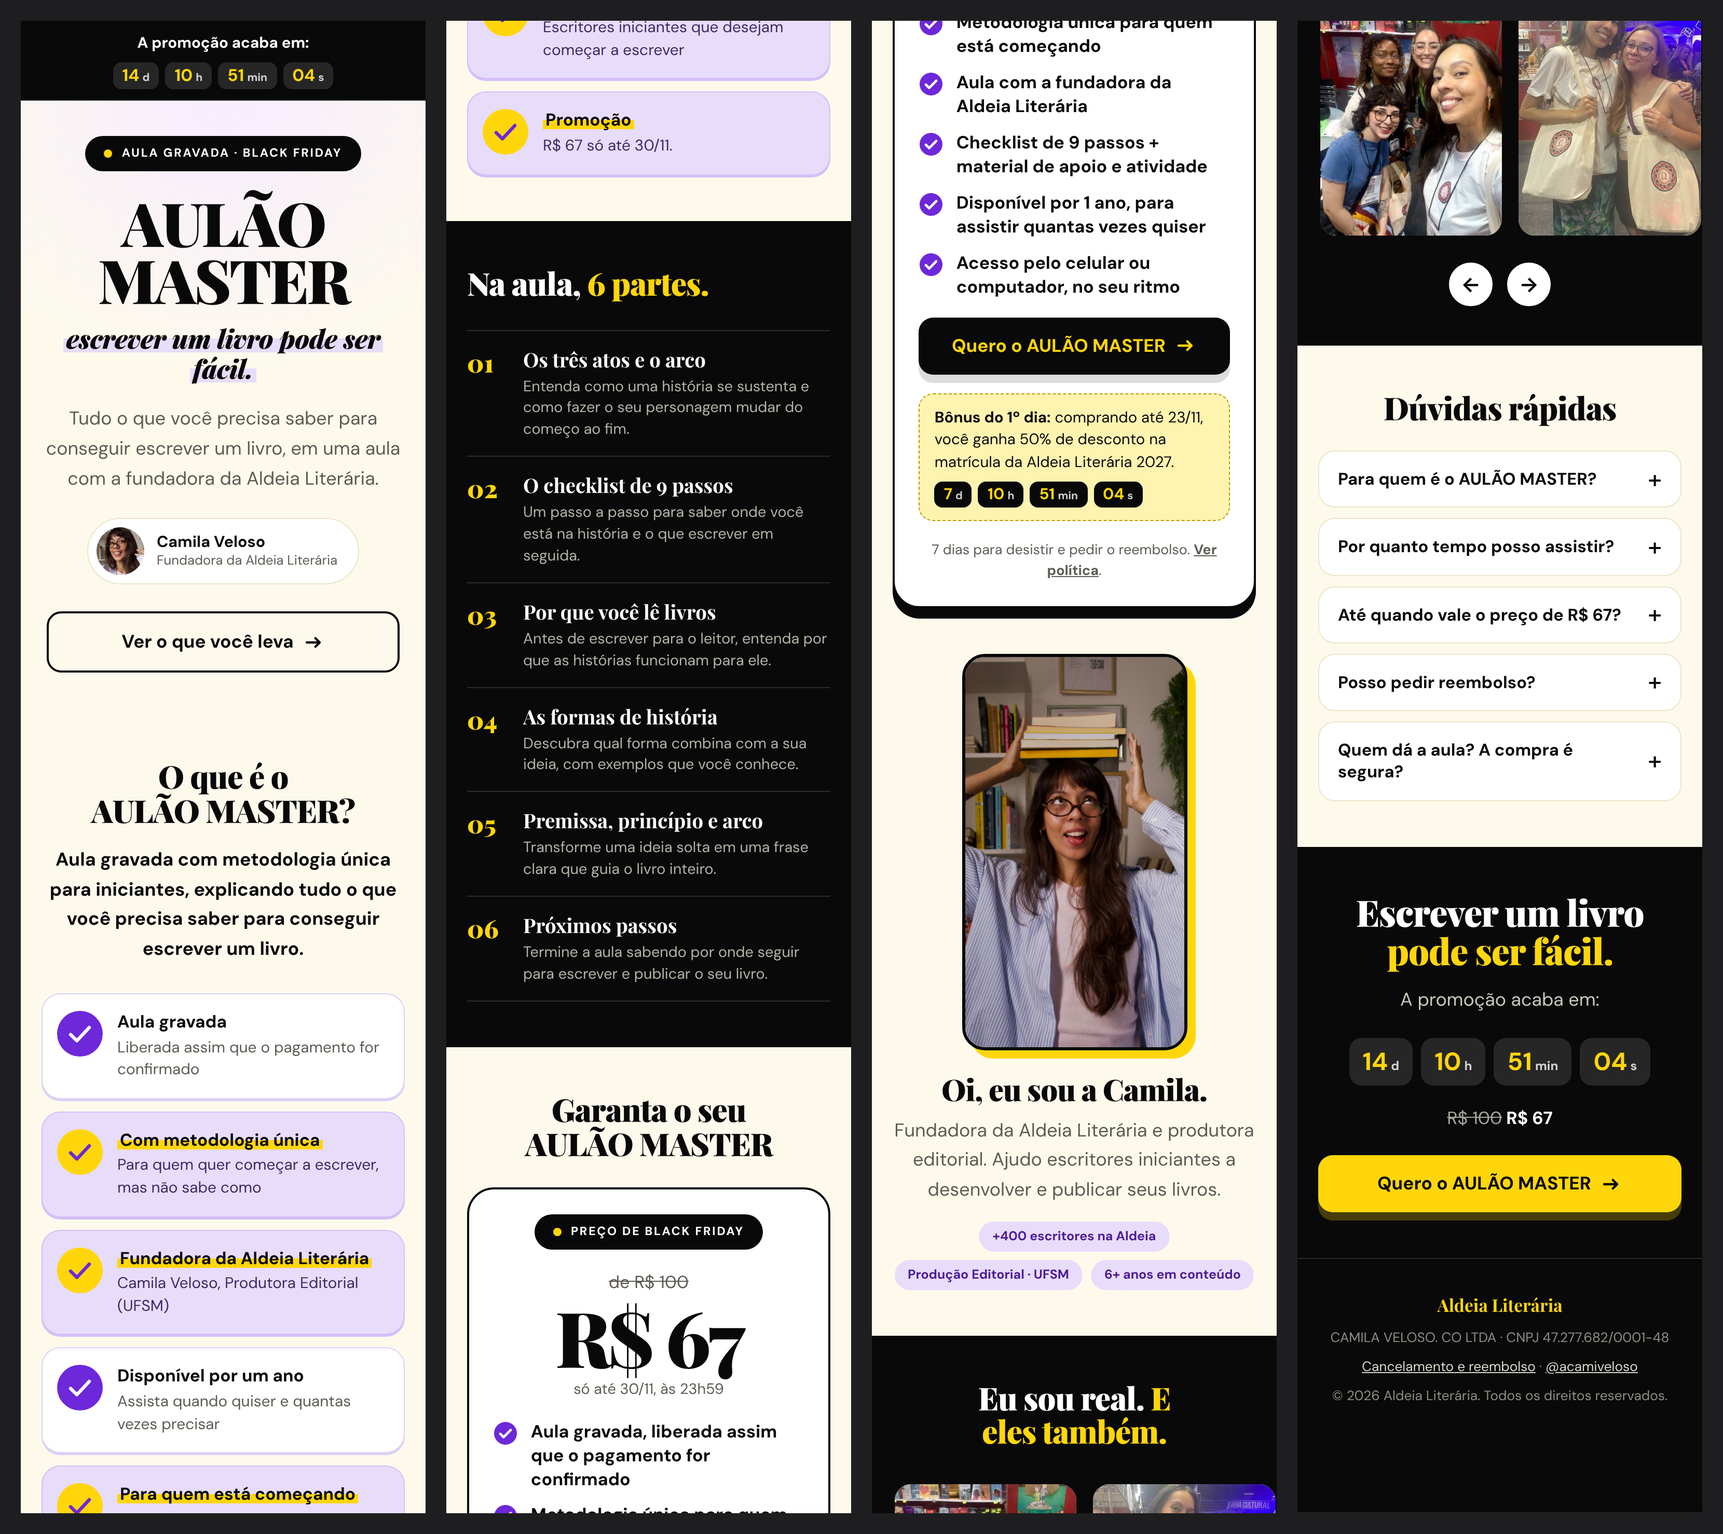
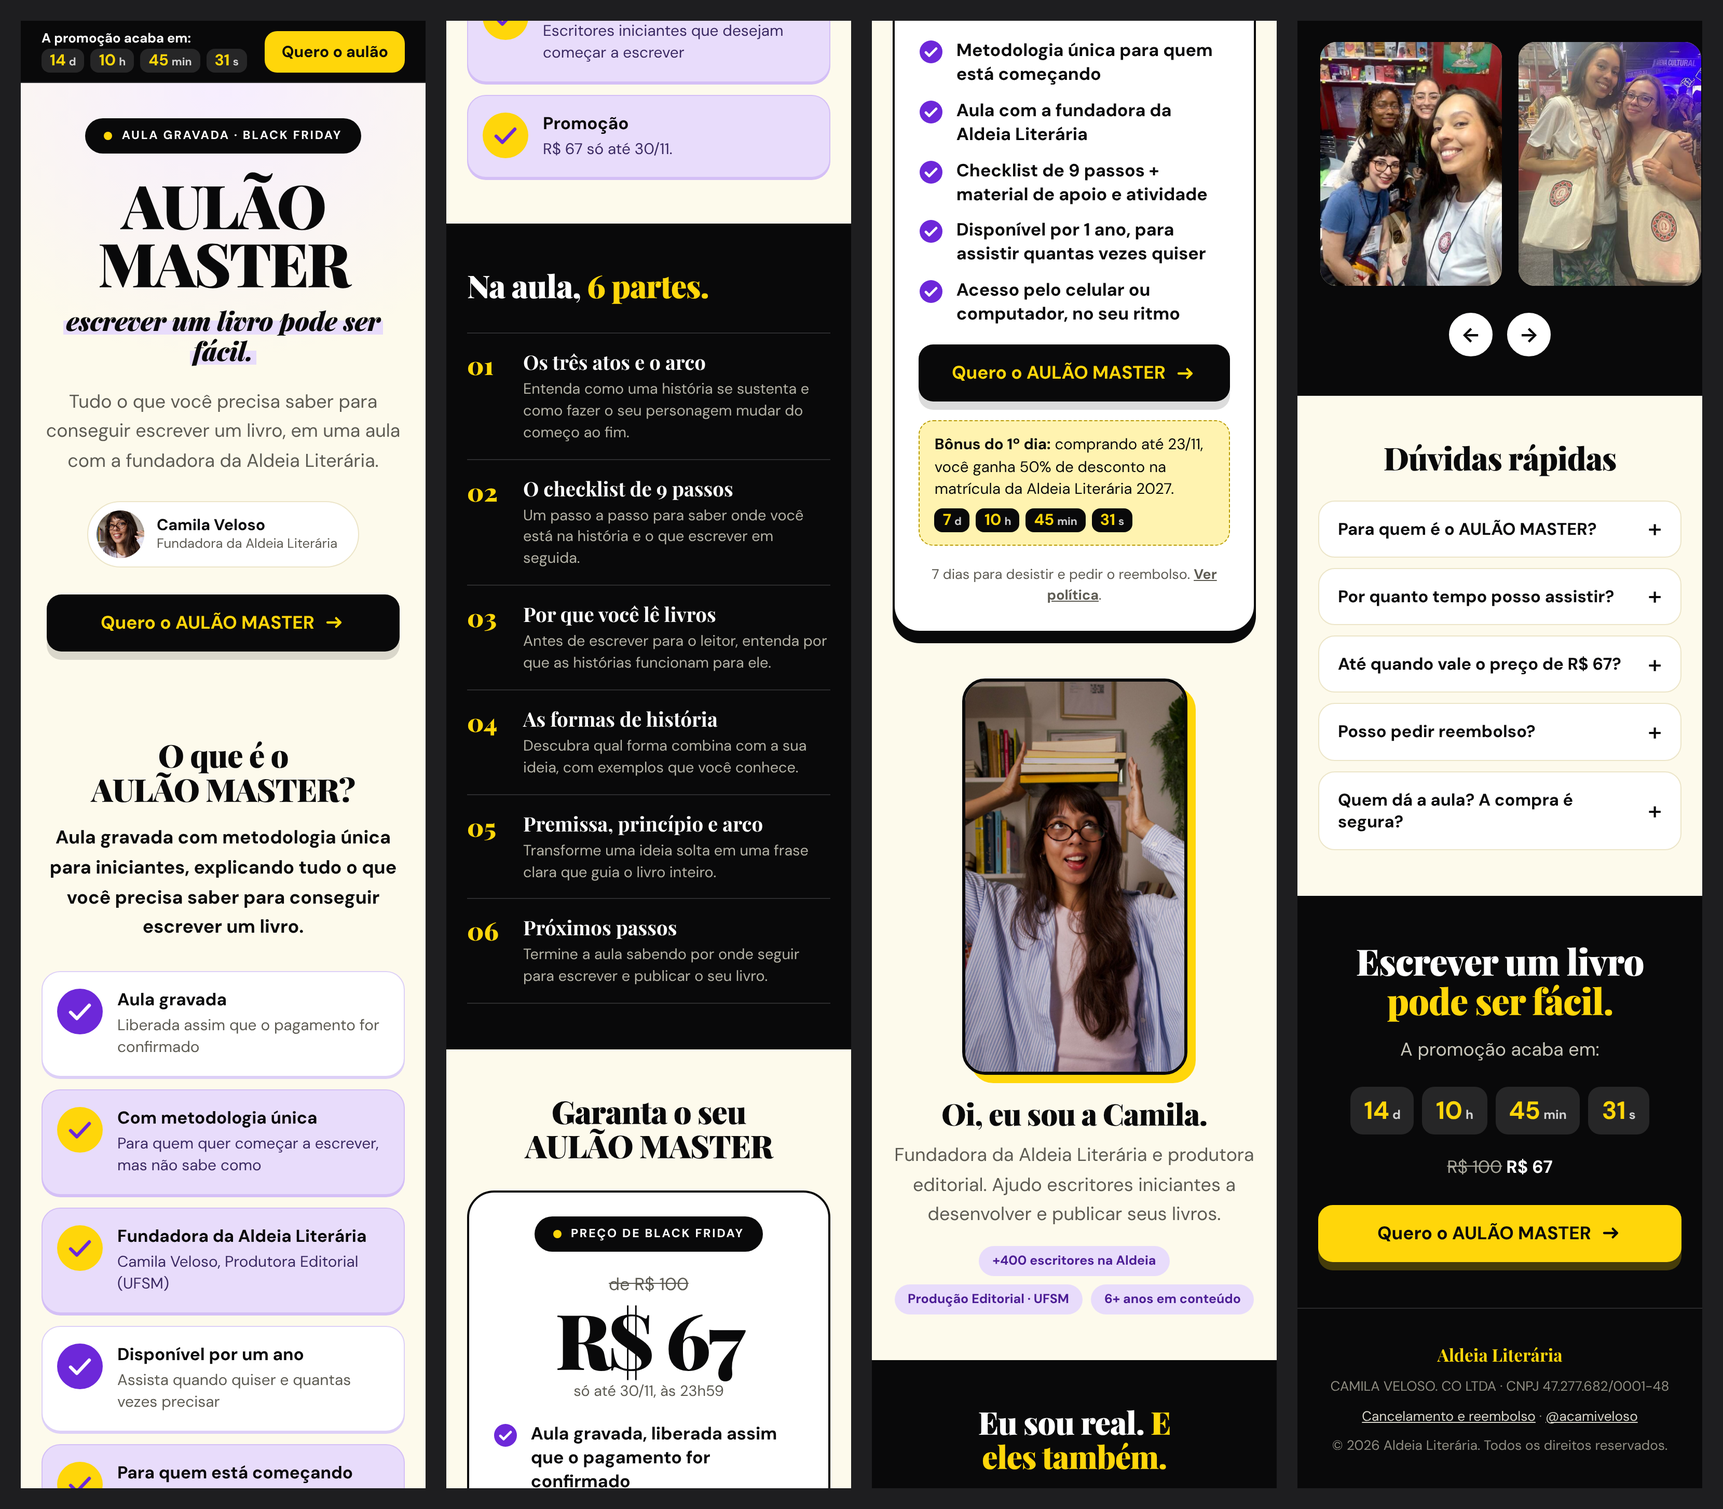
AULÃO MASTER v3: botão de compra no hero e na faixa fixa do topo; cartões sem grifo amarelo
Claude-Session: https://claude.ai/code/session_018T7GkZLaWQuT4ZYNQb9eHy

diff --git a/preview/aulao-master-v3.html b/preview/aulao-master-v3.html
@@ -47,11 +47,12 @@ h1,h2,h3{font-family:var(--f-head);font-weight:900;margin:0;line-height:1.08;let
 
 /* promoção: faixa preta com contagem regressiva */
 .am-alert{position:sticky;top:env(safe-area-inset-top,0px);z-index:50;background:var(--ink);color:#fff;border-bottom:1px solid #2a2a2c}
-.am-alert .am-wrap{max-width:none;display:flex;gap:6px 14px;align-items:center;justify-content:center;flex-wrap:wrap;padding-block:10px;text-align:center}
-.am-alert__txt{font-weight:700;font-size:.92rem}
+.am-alert .am-wrap{max-width:var(--col);display:flex;gap:10px 16px;align-items:center;justify-content:space-between;padding-block:9px}
+.am-alert__info{display:flex;flex-direction:column;align-items:flex-start;gap:3px;min-width:0}
+.am-alert__txt{font-weight:700;font-size:.8rem;line-height:1.2}
 .am-alert__txt b{color:var(--yellow)}
 .am-count{display:inline-flex;gap:6px;font-variant-numeric:tabular-nums}
-.am-count span{display:inline-flex;align-items:baseline;gap:3px;background:rgba(255,255,255,.12);color:var(--yellow);border-radius:8px;padding:3px 9px;font-weight:700;font-size:1.02rem;line-height:1.25}
+.am-count span{display:inline-flex;align-items:baseline;gap:3px;background:rgba(255,255,255,.12);color:var(--yellow);border-radius:8px;padding:2px 8px;font-weight:700;font-size:.95rem;line-height:1.25}
 .am-count small{font-size:.66rem;font-weight:700;color:#fff;opacity:.8}
 .am-count--big{gap:8px}
 .am-count--big span{background:rgba(255,255,255,.12);color:var(--yellow);font-size:clamp(1.5rem,6vw,2rem);padding:8px 13px;border-radius:12px}
@@ -67,6 +68,8 @@ h1,h2,h3{font-family:var(--f-head);font-weight:900;margin:0;line-height:1.08;let
 .am-btn--yellow{background:var(--yellow);color:var(--ink);box-shadow:0 8px 0 rgba(255,214,10,.25)}
 .am-btn--ghost{background:transparent;color:var(--ink);box-shadow:none;border:2px solid var(--ink)}
 .am-btn--ghost:hover{background:var(--ink);color:var(--yellow);transform:none}
+.am-btn--bar{width:auto;flex:none;padding:11px 16px;font-size:.95rem;box-shadow:none;white-space:nowrap;border-radius:12px}
+.am-btn--bar:hover{box-shadow:none;transform:none;background:#fff}
 .am-btn--sm{width:auto;padding:11px 18px;font-size:.95rem;box-shadow:none}
 a:focus-visible,button:focus-visible,summary:focus-visible,.am-track:focus-visible{outline:3px solid var(--violet);outline-offset:3px}
 .am-dark a:focus-visible{outline-color:var(--yellow)}
@@ -91,7 +94,6 @@ a:focus-visible,button:focus-visible,summary:focus-visible,.am-track:focus-visib
 .am-benefits b{font-weight:700;font-size:1.04rem;line-height:1.25;align-self:end}
 .am-benefits li>span{font-size:.93rem;color:var(--muted);line-height:1.45}
 .am-benefits li.is-hot{--ic-bg:var(--yellow);--ic-fg:var(--violet2);background:var(--lilac);border-color:#d4bff6;box-shadow:0 2px 0 #d4bff6}
-.am-benefits li.is-hot .am-m{background:linear-gradient(transparent 52%,var(--yellow) 52%,var(--yellow) 94%,transparent 94%);padding-inline:.15em;-webkit-box-decoration-break:clone;box-decoration-break:clone}
 .am-benefits li.is-hot>span{color:#3b2a63}
 
 /* partes da aula (só títulos) */
@@ -158,34 +160,29 @@ a:focus-visible,button:focus-visible,summary:focus-visible,.am-track:focus-visib
 .am-final .am-price-line s{color:#a8a69b;font-weight:400}
 
 /* rodapé */
-.am-footer{background:var(--ink);color:#8f8d82;padding-block:30px 100px;font-size:.82rem;line-height:1.7;text-align:center;border-top:1px solid #2a2a2c}
+.am-footer{background:var(--ink);color:#8f8d82;padding-block:30px;font-size:.82rem;line-height:1.7;text-align:center;border-top:1px solid #2a2a2c}
 .am-footer .am-wrap{display:grid;gap:6px}
 .am-footer a{color:#d9d7cc}
 .am-footer b{color:var(--yellow);font-family:var(--f-head);font-size:1.05rem}
 
-/* barra de compra fixa no celular */
-.am-sticky{position:fixed;left:0;right:0;bottom:0;z-index:55;background:var(--ink);padding:10px max(16px,env(safe-area-inset-right,0px)) calc(10px + env(safe-area-inset-bottom,0px)) max(16px,env(safe-area-inset-left,0px));display:flex;align-items:center;justify-content:space-between;gap:12px;transform:translateY(110%);transition:transform .3s;border-top:1px solid #2a2a2c}
-.am-sticky.is-on{transform:none}
-.am-sticky b{font-family:var(--f-head);font-weight:900;color:#fff;font-size:1.5rem;line-height:1}
-.am-sticky s{color:#a8a69b;font-size:.82rem;margin-right:6px}
-.am-sticky small{display:block;color:#a8a69b;font-size:.72rem}
-.am-sticky .am-btn{background:var(--yellow);color:var(--ink);width:auto;box-shadow:none;padding:12px 20px;font-size:1rem}
-
 @media (min-width:700px){
+  .am-alert__info{flex-direction:row;align-items:center;gap:12px}
+  .am-alert__txt{font-size:.92rem}
   .am-benefits{grid-template-columns:1fr 1fr}
   .am-bio{grid-template-columns:230px 1fr;text-align:left;justify-items:start;align-items:center;gap:36px}
   .am-bio__photo{width:230px}
   .am-chips{justify-content:flex-start}
-  .am-sticky{display:none}
-  .am-footer{padding-block:30px}
 }
-@media (prefers-reduced-motion:reduce){html{scroll-behavior:auto}.am-track{scroll-behavior:auto}.am-btn,.am-sticky{transition:none}}
+@media (prefers-reduced-motion:reduce){html{scroll-behavior:auto}.am-track{scroll-behavior:auto}.am-btn{transition:none}}
 </style>
 
 <div class="am-alert" role="status"><div class="am-wrap">
-  <span class="am-alert__txt am-promo">A promoção acaba em:</span>
-  <span class="am-count am-promo" data-count="sale" aria-hidden="true"><span>7<small>d</small></span><span>00<small>h</small></span><span>00<small>min</small></span><span>00<small>s</small></span></span>
-  <span class="am-alert__txt am-regular">A promoção de Black Friday terminou. Valor atual: <b>R$ 100</b></span>
+  <div class="am-alert__info">
+    <span class="am-alert__txt am-promo">A promoção acaba em:</span>
+    <span class="am-count am-promo" data-count="sale" aria-hidden="true"><span>7<small>d</small></span><span>00<small>h</small></span><span>00<small>min</small></span><span>00<small>s</small></span></span>
+    <span class="am-alert__txt am-regular">A promoção terminou. Valor atual: <b>R$ 100</b></span>
+  </div>
+  <a class="am-btn am-btn--yellow am-btn--bar" href="#oferta">Quero o aulão</a>
 </div></div>
 
 <main id="topo">
@@ -195,7 +192,7 @@ a:focus-visible,button:focus-visible,summary:focus-visible,.am-track:focus-visib
   <p class="am-tag"><span class="am-hl">escrever um livro pode ser fácil.</span></p>
   <p class="am-lead">Tudo o que você precisa saber para conseguir escrever um livro, em uma aula com a fundadora da Aldeia Literária.</p>
   <div class="am-author"><img src="aulao/img/camila-sorriso.jpg" alt="Camila Veloso" width="92" height="92"><div><strong>Camila Veloso</strong><span>Fundadora da Aldeia Literária</span></div></div>
-  <div class="am-hero__cta"><a id="am-hero-cta" class="am-btn am-btn--ghost" href="#leva">Ver o que você leva <svg width="20" height="20" viewBox="0 0 24 24" fill="none" aria-hidden="true"><path d="M3 12h15m0 0l-5-5m5 5l-5 5" stroke="currentColor" stroke-width="2.6" stroke-linecap="round" stroke-linejoin="round"/></svg></a></div>
+  <div class="am-hero__cta"><a id="am-hero-cta" class="am-btn" href="#oferta">Quero o AULÃO MASTER <svg width="20" height="20" viewBox="0 0 24 24" fill="none" aria-hidden="true"><path d="M3 12h15m0 0l-5-5m5 5l-5 5" stroke="currentColor" stroke-width="2.6" stroke-linecap="round" stroke-linejoin="round"/></svg></a></div>
 </div></section>
 
 <section class="am-sec am-what" id="leva" aria-labelledby="t-oque"><div class="am-wrap am-center">
@@ -271,7 +268,6 @@ a:focus-visible,button:focus-visible,summary:focus-visible,.am-track:focus-visib
   <p>© 2026 Aldeia Literária. Todos os direitos reservados.</p>
 </div></footer>
 
-<div class="am-sticky" id="am-sticky"><div><b><s class="am-promo">R$ 100</s><span class="am-promo">R$ 67</span><span class="am-regular">R$ 100</span></b><small class="am-promo">promoção até 30/11</small></div><a class="am-btn am-btn--sm" href="#oferta">Quero o aulão</a></div>
 <script type="application/ld+json">{"@context":"https://schema.org","@graph":[{"@type":"Course","@id":"https://aaldeialiteraria.com.br/aulao-master/#aula","name":"AULÃO MASTER: tudo o que você precisa saber para conseguir escrever um livro","url":"https://aaldeialiteraria.com.br/aulao-master/","inLanguage":"pt-BR","description":"Aula gravada de Camila Veloso, fundadora da Aldeia Literária, para quem quer escrever um livro. Disponível por 1 ano. R$ 67 na Black Friday, até 30/11.","about":["Escrita criativa","Estrutura narrativa","Como escrever um livro"],"teaches":"Estrutura de três atos, checklist de 9 passos, formas de história e premissa.","educationalLevel":"Iniciante","isAccessibleForFree":false,"provider":{"@type":"EducationalOrganization","name":"Aldeia Literária","url":"https://aaldeialiteraria.com.br/","legalName":"CAMILA VELOSO. CO LTDA","taxID":"47.277.682/0001-48"},"instructor":{"@type":"Person","name":"Camila Veloso","jobTitle":"Fundadora da Aldeia Literária","sameAs":["https://www.instagram.com/acamiveloso/"]},"hasCourseInstance":{"@type":"CourseInstance","courseMode":"online"},"offers":{"@type":"Offer","price":"67.00","priceCurrency":"BRL","availability":"https://schema.org/InStock","url":"https://aaldeialiteraria.com.br/aulao-master/","priceValidUntil":"2026-11-30"}},{"@type":"FAQPage","mainEntity":[{"@type":"Question","name":"Para quem é o AULÃO MASTER?","acceptedAnswer":{"@type":"Answer","text":"Para quem está começando e quer escrever o primeiro livro, mas não sabe por onde começar. Você não precisa ter nada pronto."}},{"@type":"Question","name":"Por quanto tempo posso assistir?","acceptedAnswer":{"@type":"Answer","text":"O acesso dura 1 ano a partir da compra. Você assiste quando quiser e quantas vezes precisar, inclusive pelo celular."}},{"@type":"Question","name":"Até quando vale o preço de R$ 67?","acceptedAnswer":{"@type":"Answer","text":"O preço promocional de Black Friday vale até 30/11, às 23h59 (horário de Brasília). Depois disso, o AULÃO MASTER continua disponível, por R$ 100."}},{"@type":"Question","name":"Posso pedir reembolso?","acceptedAnswer":{"@type":"Answer","text":"Sim. Você tem 7 dias corridos depois da compra para desistir e pedir o reembolso. Veja a política de cancelamento e reembolso."}},{"@type":"Question","name":"Quem dá a aula? A compra é segura?","acceptedAnswer":{"@type":"Answer","text":"Camila Veloso, fundadora da Aldeia Literária e produtora editorial (UFSM). A venda é feita por CAMILA VELOSO. CO LTDA, CNPJ 47.277.682/0001-48, que você pode consultar na Receita Federal."}}]}]}</script>
 
 <script>

diff --git a/tools/aulao-v3/aulao.css b/tools/aulao-v3/aulao.css
@@ -33,11 +33,12 @@ h1,h2,h3{font-family:var(--f-head);font-weight:900;margin:0;line-height:1.08;let
 
 /* promoção: faixa preta com contagem regressiva */
 .am-alert{position:sticky;top:env(safe-area-inset-top,0px);z-index:50;background:var(--ink);color:#fff;border-bottom:1px solid #2a2a2c}
-.am-alert .am-wrap{max-width:none;display:flex;gap:6px 14px;align-items:center;justify-content:center;flex-wrap:wrap;padding-block:10px;text-align:center}
-.am-alert__txt{font-weight:700;font-size:.92rem}
+.am-alert .am-wrap{max-width:var(--col);display:flex;gap:10px 16px;align-items:center;justify-content:space-between;padding-block:9px}
+.am-alert__info{display:flex;flex-direction:column;align-items:flex-start;gap:3px;min-width:0}
+.am-alert__txt{font-weight:700;font-size:.8rem;line-height:1.2}
 .am-alert__txt b{color:var(--yellow)}
 .am-count{display:inline-flex;gap:6px;font-variant-numeric:tabular-nums}
-.am-count span{display:inline-flex;align-items:baseline;gap:3px;background:rgba(255,255,255,.12);color:var(--yellow);border-radius:8px;padding:3px 9px;font-weight:700;font-size:1.02rem;line-height:1.25}
+.am-count span{display:inline-flex;align-items:baseline;gap:3px;background:rgba(255,255,255,.12);color:var(--yellow);border-radius:8px;padding:2px 8px;font-weight:700;font-size:.95rem;line-height:1.25}
 .am-count small{font-size:.66rem;font-weight:700;color:#fff;opacity:.8}
 .am-count--big{gap:8px}
 .am-count--big span{background:rgba(255,255,255,.12);color:var(--yellow);font-size:clamp(1.5rem,6vw,2rem);padding:8px 13px;border-radius:12px}
@@ -53,6 +54,8 @@ h1,h2,h3{font-family:var(--f-head);font-weight:900;margin:0;line-height:1.08;let
 .am-btn--yellow{background:var(--yellow);color:var(--ink);box-shadow:0 8px 0 rgba(255,214,10,.25)}
 .am-btn--ghost{background:transparent;color:var(--ink);box-shadow:none;border:2px solid var(--ink)}
 .am-btn--ghost:hover{background:var(--ink);color:var(--yellow);transform:none}
+.am-btn--bar{width:auto;flex:none;padding:11px 16px;font-size:.95rem;box-shadow:none;white-space:nowrap;border-radius:12px}
+.am-btn--bar:hover{box-shadow:none;transform:none;background:#fff}
 .am-btn--sm{width:auto;padding:11px 18px;font-size:.95rem;box-shadow:none}
 a:focus-visible,button:focus-visible,summary:focus-visible,.am-track:focus-visible{outline:3px solid var(--violet);outline-offset:3px}
 .am-dark a:focus-visible{outline-color:var(--yellow)}
@@ -77,7 +80,6 @@ a:focus-visible,button:focus-visible,summary:focus-visible,.am-track:focus-visib
 .am-benefits b{font-weight:700;font-size:1.04rem;line-height:1.25;align-self:end}
 .am-benefits li>span{font-size:.93rem;color:var(--muted);line-height:1.45}
 .am-benefits li.is-hot{--ic-bg:var(--yellow);--ic-fg:var(--violet2);background:var(--lilac);border-color:#d4bff6;box-shadow:0 2px 0 #d4bff6}
-.am-benefits li.is-hot .am-m{background:linear-gradient(transparent 52%,var(--yellow) 52%,var(--yellow) 94%,transparent 94%);padding-inline:.15em;-webkit-box-decoration-break:clone;box-decoration-break:clone}
 .am-benefits li.is-hot>span{color:#3b2a63}
 
 /* partes da aula (só títulos) */
@@ -144,25 +146,17 @@ a:focus-visible,button:focus-visible,summary:focus-visible,.am-track:focus-visib
 .am-final .am-price-line s{color:#a8a69b;font-weight:400}
 
 /* rodapé */
-.am-footer{background:var(--ink);color:#8f8d82;padding-block:30px 100px;font-size:.82rem;line-height:1.7;text-align:center;border-top:1px solid #2a2a2c}
+.am-footer{background:var(--ink);color:#8f8d82;padding-block:30px;font-size:.82rem;line-height:1.7;text-align:center;border-top:1px solid #2a2a2c}
 .am-footer .am-wrap{display:grid;gap:6px}
 .am-footer a{color:#d9d7cc}
 .am-footer b{color:var(--yellow);font-family:var(--f-head);font-size:1.05rem}
 
-/* barra de compra fixa no celular */
-.am-sticky{position:fixed;left:0;right:0;bottom:0;z-index:55;background:var(--ink);padding:10px max(16px,env(safe-area-inset-right,0px)) calc(10px + env(safe-area-inset-bottom,0px)) max(16px,env(safe-area-inset-left,0px));display:flex;align-items:center;justify-content:space-between;gap:12px;transform:translateY(110%);transition:transform .3s;border-top:1px solid #2a2a2c}
-.am-sticky.is-on{transform:none}
-.am-sticky b{font-family:var(--f-head);font-weight:900;color:#fff;font-size:1.5rem;line-height:1}
-.am-sticky s{color:#a8a69b;font-size:.82rem;margin-right:6px}
-.am-sticky small{display:block;color:#a8a69b;font-size:.72rem}
-.am-sticky .am-btn{background:var(--yellow);color:var(--ink);width:auto;box-shadow:none;padding:12px 20px;font-size:1rem}
-
 @media (min-width:700px){
+  .am-alert__info{flex-direction:row;align-items:center;gap:12px}
+  .am-alert__txt{font-size:.92rem}
   .am-benefits{grid-template-columns:1fr 1fr}
   .am-bio{grid-template-columns:230px 1fr;text-align:left;justify-items:start;align-items:center;gap:36px}
   .am-bio__photo{width:230px}
   .am-chips{justify-content:flex-start}
-  .am-sticky{display:none}
-  .am-footer{padding-block:30px}
 }
-@media (prefers-reduced-motion:reduce){html{scroll-behavior:auto}.am-track{scroll-behavior:auto}.am-btn,.am-sticky{transition:none}}
+@media (prefers-reduced-motion:reduce){html{scroll-behavior:auto}.am-track{scroll-behavior:auto}.am-btn{transition:none}}

diff --git a/tools/aulao-v3/build_aulao.py b/tools/aulao-v3/build_aulao.py
@@ -84,9 +84,12 @@ def page():
     slides = "".join(f'<li class="am-slide"><img src="{{IMG:comunidade-{n:02d}.jpg}}" alt="Camila Veloso com alunos e leitores em encontro presencial" width="420" height="560" loading="lazy"></li>' for n in ids)
     return f'''
 <div class="am-alert" role="status"><div class="am-wrap">
-  <span class="am-alert__txt am-promo">A promoção acaba em:</span>
-  <span class="am-count am-promo" data-count="sale" aria-hidden="true"><span>7<small>d</small></span><span>00<small>h</small></span><span>00<small>min</small></span><span>00<small>s</small></span></span>
-  <span class="am-alert__txt am-regular">A promoção de Black Friday terminou. Valor atual: <b>R$ {PRICE_FULL}</b></span>
+  <div class="am-alert__info">
+    <span class="am-alert__txt am-promo">A promoção acaba em:</span>
+    <span class="am-count am-promo" data-count="sale" aria-hidden="true"><span>7<small>d</small></span><span>00<small>h</small></span><span>00<small>min</small></span><span>00<small>s</small></span></span>
+    <span class="am-alert__txt am-regular">A promoção terminou. Valor atual: <b>R$ {PRICE_FULL}</b></span>
+  </div>
+  <a class="am-btn am-btn--yellow am-btn--bar" href="{CHECKOUT}">Quero o aulão</a>
 </div></div>
 
 <main id="topo">
@@ -96,7 +99,7 @@ def page():
   <p class="am-tag"><span class="am-hl">escrever um livro pode ser fácil.</span></p>
   <p class="am-lead">Tudo o que você precisa saber para conseguir escrever um livro, em uma aula com a fundadora da Aldeia Literária.</p>
   <div class="am-author"><img src="{{IMG:camila-sorriso.jpg}}" alt="Camila Veloso" width="92" height="92"><div><strong>Camila Veloso</strong><span>Fundadora da Aldeia Literária</span></div></div>
-  <div class="am-hero__cta"><a id="am-hero-cta" class="am-btn am-btn--ghost" href="#leva">Ver o que você leva {ARROW}</a></div>
+  <div class="am-hero__cta"><a id="am-hero-cta" class="am-btn" href="{CHECKOUT}">Quero o AULÃO MASTER {ARROW}</a></div>
 </div></section>
 
 <section class="am-sec am-what" id="leva" aria-labelledby="t-oque"><div class="am-wrap am-center">
@@ -172,7 +175,6 @@ def page():
   <p>© 2026 Aldeia Literária. Todos os direitos reservados.</p>
 </div></footer>
 
-<div class="am-sticky" id="am-sticky"><div><b><s class="am-promo">R$ {PRICE_FULL}</s><span class="am-promo">R$ {PRICE}</span><span class="am-regular">R$ {PRICE_FULL}</span></b><small class="am-promo">promoção até 30/11</small></div><a class="am-btn am-btn--sm" href="{CHECKOUT}">Quero o aulão</a></div>
 {jsonld()}
 '''
 
